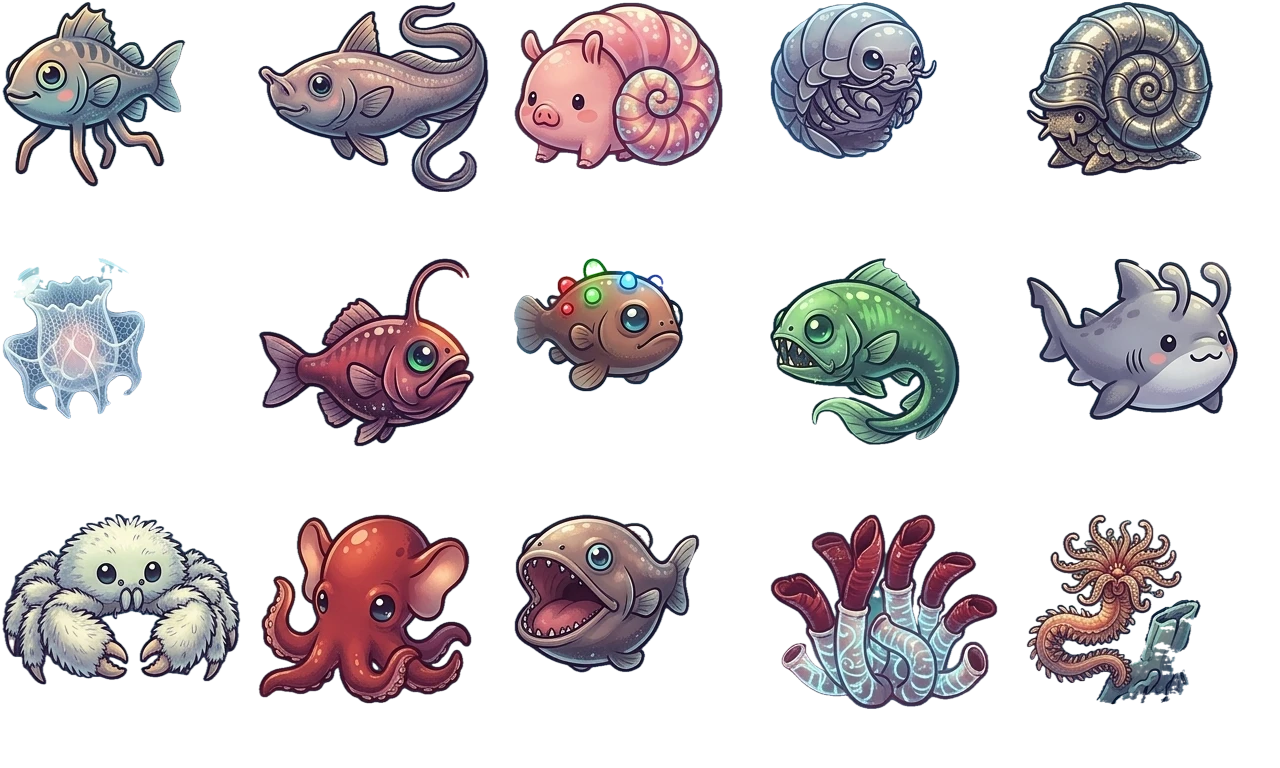
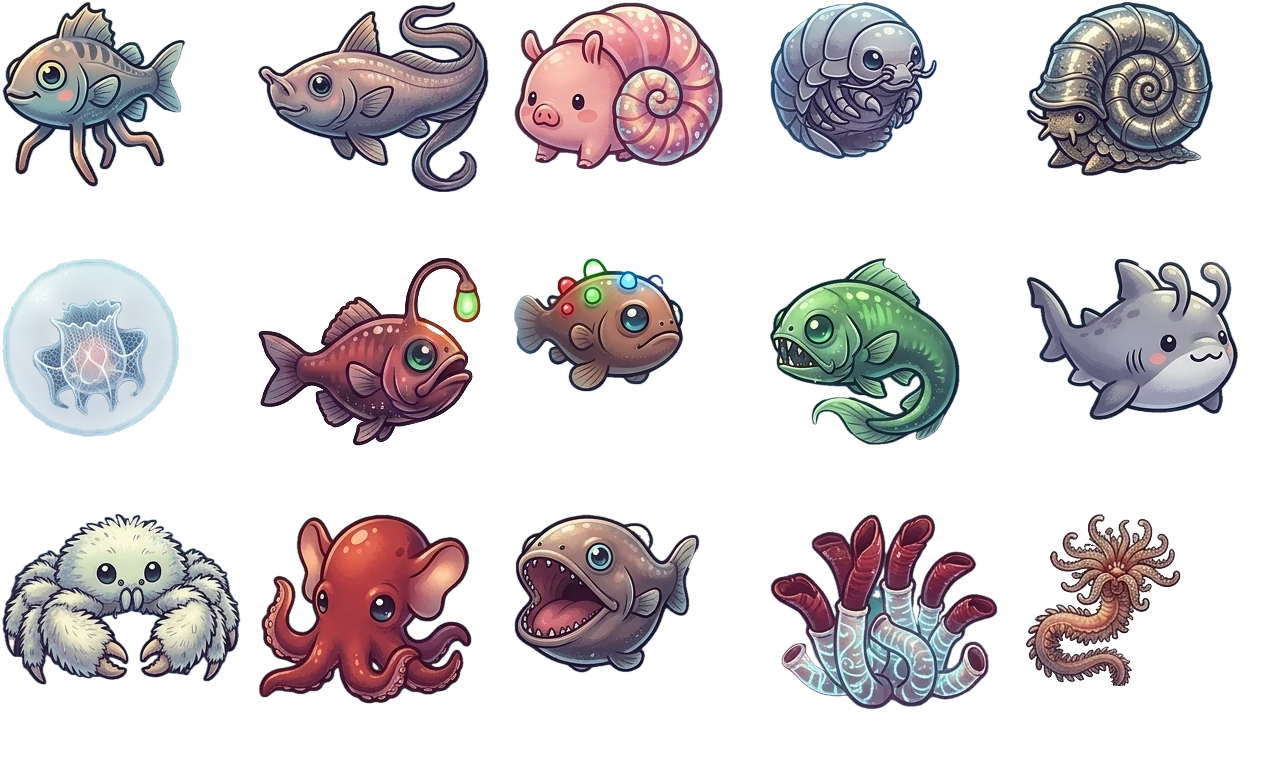
Tidesong: repair 23 creatures that were cut off by busy backgrounds

Changed region(s): [[0.0, 0.3125, 0.1562, 0.5938], [0.7812, 0.6562, 0.9375, 0.9375], [0.1875, 0.3438, 0.375, 0.5938]]

diff --git a/arcade/js/tidesong/creatureAtlas.js b/arcade/js/tidesong/creatureAtlas.js
@@ -1,5 +1,10 @@
 // Generated from FantasyCreatures/FantasyCreatures/<region>/ by
-// creature-cutter (Vision subject lifting): each creature's rectangle
+// creature-cutter (Vision subject lifting; damaged pictures re-cut from
+// creatureremakes/ by creature-cutter/remakes): each creature's rectangle
 // [x, y, w, h] in img/tidesong/creatures/<region>.webp, in the same order as
 // the region's 15 creatures in creatures.js. Do not edit by hand.
-export const creatureAtlas = {"prismreef":[[2,2,252,205],[258,2,252,180],[514,2,243,209],[770,2,159,110],[1026,2,237,195],[2,258,252,207],[258,258,252,227],[514,258,252,220],[770,258,252,183],[1026,258,230,210],[2,514,252,156],[258,514,234,222],[514,514,250,196],[770,514,252,194],[1026,514,252,161]],"verdant":[[2,2,252,135],[258,2,216,219],[514,2,213,177],[770,2,217,170],[1026,2,252,205],[2,258,235,201],[258,258,252,224],[514,258,241,196],[770,258,252,228],[1026,258,226,193],[2,514,252,210],[258,514,251,200],[514,514,250,156],[770,514,252,192],[1026,514,252,147]],"fluvius":[[2,2,243,218],[258,2,252,189],[514,2,189,252],[770,2,195,162],[1026,2,240,147],[2,258,247,191],[258,258,227,151],[514,258,252,182],[770,258,241,183],[1026,258,252,171],[2,514,241,184],[258,514,244,213],[514,514,252,182],[770,514,252,246],[1026,514,252,145]],"pelagia":[[2,2,252,168],[258,2,252,170],[514,2,211,252],[770,2,252,225],[1026,2,252,111],[2,258,252,251],[258,258,252,137],[514,258,252,151],[770,258,252,132],[1026,258,252,172],[2,514,252,169],[258,514,252,148],[514,514,252,159],[770,514,252,167],[1026,514,252,158]],"brinewallow":[[2,2,252,215],[258,2,244,199],[514,2,252,201],[770,2,252,189],[1026,2,252,198],[2,258,252,191],[258,258,193,225],[514,258,210,209],[770,258,252,200],[1026,258,216,183],[2,514,252,190],[258,514,179,157],[514,514,252,155],[770,514,174,158],[1026,514,252,195]],"frostveil":[[2,2,227,182],[258,2,248,216],[514,2,242,188],[770,2,236,153],[1026,2,247,226],[2,258,248,221],[258,258,252,210],[514,258,221,182],[770,258,209,161],[1026,258,172,179],[2,514,181,187],[258,514,222,194],[514,514,221,147],[770,514,212,219],[1026,514,252,163]],"gloomveil":[[2,2,216,186],[258,2,227,139],[514,2,152,126],[770,2,171,135],[1026,2,181,177],[2,258,236,178],[258,258,224,183],[514,258,227,137],[770,258,167,130],[1026,258,221,179],[2,514,203,180],[258,514,125,190],[514,514,235,163],[770,514,206,197],[1026,514,216,198]],"cragspire":[[2,2,240,188],[258,2,220,158],[514,2,238,192],[770,2,224,217],[1026,2,225,187],[2,258,210,213],[258,258,246,199],[514,258,236,213],[770,258,252,175],[1026,258,252,201],[2,514,206,232],[258,514,252,187],[514,514,235,214],[770,514,246,216],[1026,514,252,182]],"abyssal":[[2,2,184,185],[258,2,231,190],[514,2,209,168],[770,2,167,157],[1026,2,188,174],[2,258,143,161],[258,258,217,189],[514,258,170,134],[770,258,190,187],[1026,258,212,162],[2,514,239,171],[258,514,214,190],[514,514,186,159],[770,514,228,195],[1026,514,175,191]],"fangshore":[[2,2,252,184],[258,2,252,167],[514,2,252,249],[770,2,252,235],[1026,2,252,200],[2,258,252,95],[258,258,252,132],[514,258,252,141],[770,258,239,252],[1026,258,252,156],[2,514,252,237],[258,514,252,187],[514,514,246,252],[770,514,252,155],[1026,514,252,191]]};
+export const creatureAtlas = {"prismreef":[[2,2,252,205],[258,2,252,180],[514,2,243,209],[770,2,200,129],[1026,2,237,195],[2,258,252,207],[258,258,252,227],[514,258,252,220],[770,258,252,183],[1026,258,230,210],[2,514,252,156],[258,514,234,222],[514,514,250,196],[770,514,252,194],[1026,514,252,161]],"verdant":[[2,2,252,135],[258,2,216,219],[514,2,213,177],[770,2,217,170],[1026,2,175,108],[2,258,235,201],[258,258,252,224],[514,258,241,196],[770,258,252,228],[1026,258,226,193],[2,514,252,210],[258,514,251,200],[514,514,250,156],[770,514,252,192],[1026,514,252,146]],"fluvius":[[2,2,243,218],[258,2,252,189],[514,2,189,252],[770,2,195,162],[1026,2,240,147],[2,258,247,191],[258,258,227,223],[514,258,252,182],[770,258,222,179],[1026,258,252,171],[2,514,241,184],[258,514,244,213],[514,514,252,182],[770,514,214,212],[1026,514,252,145]],"pelagia":[[2,2,252,168],[258,2,252,170],[514,2,211,252],[770,2,252,235],[1026,2,252,111],[2,258,224,252],[258,258,252,137],[514,258,252,151],[770,258,252,132],[1026,258,252,172],[2,514,252,169],[258,514,252,202],[514,514,252,186],[770,514,252,167],[1026,514,252,158]],"brinewallow":[[2,2,252,215],[258,2,180,170],[514,2,252,201],[770,2,252,189],[1026,2,252,198],[2,258,252,191],[258,258,193,225],[514,258,210,209],[770,258,252,200],[1026,258,216,183],[2,514,252,190],[258,514,179,157],[514,514,252,155],[770,514,207,185],[1026,514,252,195]],"frostveil":[[2,2,227,182],[258,2,248,216],[514,2,242,188],[770,2,236,153],[1026,2,247,226],[2,258,248,221],[258,258,252,210],[514,258,221,182],[770,258,209,161],[1026,258,172,179],[2,514,181,187],[258,514,222,194],[514,514,221,147],[770,514,212,219],[1026,514,252,163]],"gloomveil":[[2,2,233,188],[258,2,227,139],[514,2,198,191],[770,2,171,135],[1026,2,181,177],[2,258,223,184],[258,258,224,183],[514,258,227,137],[770,258,167,130],[1026,258,221,179],[2,514,203,180],[258,514,228,203],[514,514,235,163],[770,514,206,197],[1026,514,216,198]],"cragspire":[[2,2,240,188],[258,2,220,158],[514,2,238,192],[770,2,224,217],[1026,2,225,187],[2,258,210,213],[258,258,246,199],[514,258,236,213],[770,258,252,175],[1026,258,252,201],[2,514,206,232],[258,514,252,187],[514,514,235,214],[770,514,246,216],[1026,514,252,182]],"abyssal":[[2,2,184,185],[258,2,231,190],[514,2,209,168],[770,2,167,157],[1026,2,188,174],[2,258,178,179],[258,258,223,188],[514,258,170,134],[770,258,190,187],[1026,258,212,162],[2,514,239,171],[258,514,214,190],[514,514,186,159],[770,514,228,195],[1026,514,155,172]],"fangshore":[[2,2,252,184],[258,2,252,167],[514,2,252,249],[770,2,252,235],[1026,2,252,200],[2,258,252,136],[258,258,252,212],[514,258,252,143],[770,258,252,250],[1026,258,252,156],[2,514,252,237],[258,514,252,187],[514,514,246,252],[770,514,252,155],[1026,514,252,191]]};
+
+// A hash of each region picture, added to its address so browsers fetch
+// the new picture whenever it changes.
+export const creatureArtVersion = {"prismreef":"9c3f372a69","verdant":"5c308fd7ee","fluvius":"c0ac2f5ac0","pelagia":"4ac6c63f0d","brinewallow":"854d8ff65e","frostveil":"a41f67477a","gloomveil":"f925052517","cragspire":"6fb841da5f","abyssal":"733a6e8694","fangshore":"f7864bea38"};

diff --git a/arcade/js/tidesong/creatureArt.js b/arcade/js/tidesong/creatureArt.js
@@ -2,7 +2,7 @@
 // region, see creatureAtlas.js). Pictures are fitted into a square and
 // cached per creature, size and mode, so a battle draws one cached image a
 // frame.
-import { creatureAtlas } from "./creatureAtlas.js";
+import { creatureArtVersion, creatureAtlas } from "./creatureAtlas.js";
 import { creatureById } from "./creatures.js";
 import { needsFlip } from "./creatureFacing.js";
 import { makeCanvas } from "./util.js";
@@ -19,7 +19,7 @@ function atlasFor(zone) {
     img.addEventListener("load", () => {
       entry.ready = true;
     });
-    img.src = `img/tidesong/creatures/${zone}.webp`;
+    img.src = `img/tidesong/creatures/${zone}.webp?v=${creatureArtVersion[zone] ?? ""}`;
     entry.loaded = new Promise((resolve) => {
       img.addEventListener("load", resolve);
       img.addEventListener("error", resolve);
